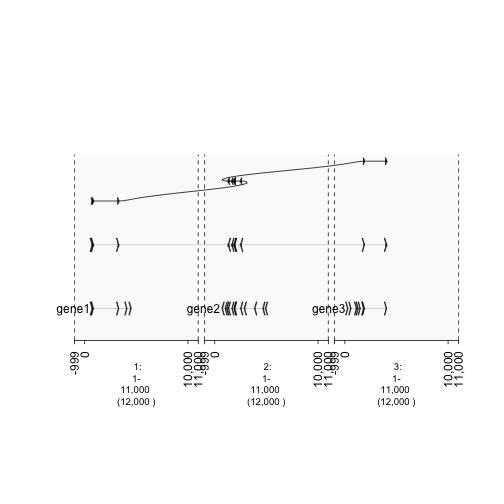
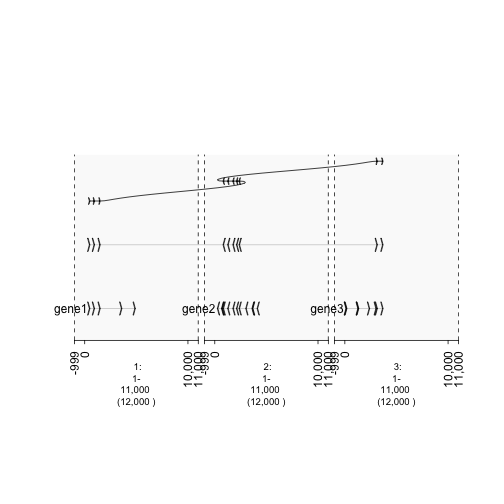
edit vignette

diff --git a/rtdocs/vignetteMutations/vignetteMutations.rst b/rtdocs/vignetteMutations/vignetteMutations.rst
@@ -1,14 +1,19 @@
-Vignette Showing How to Graph Mutations 
-=======================================
+Vignette Showing How to Graph Relationships in The Genome 
+=========================================================
 
-**Draw.paths**
+Genes interact with each other, either on purpose such as epistasis or not such as DNA rearrangement in solid tumors. Both circumstances may wish to be graphed and gTrackcan perform such a task.
 
+In this vignette, the draw.paths and gr.labelfield and circle parameters of gTrack will be highlighted. In addition, GRangesList will be used and that may be effective for certain data sets, as will be shown. 
+
+To simulate the draw.paths and gr.labelfield parameters, a GRangesList storing sequences from chromosomes 1,2, and 3 will be created. Then, a graph will show when draw.paths is supplied and when it is not. Likewise, will be done for the gr.labelfield parameter. 
 
 
 .. sourcecode:: r
     
 
-    ## To create fake genes, create two GRanges objects each filled with random ranges from chromosomes 1 and 2. Ranges fall within the 1-5e3 sequence
+    ## To simulate mutations, we first need to create genes. Once those genes are made, a few sequences will be selected as variants. Their "strange" data will be graphed and because they are outliers, they will be easily visable. This vignette also highlights examples of how/when to use the following gTrack parameters: draw.paths, gr.labelfield.  
+    
+    ## To create fake genes, create two GRanges objects each filled with random ranges from chromosomes 1,2, and 3. 
     
     gene1 = sort(sample(gr.tile(parse.gr('1:1-5e3+'), 50), 5))
     gene2 = rev(sort(sample(gr.tile(parse.gr('2:1-5e3-'), 50), 12)))
@@ -25,12 +30,12 @@ Vignette Showing How to Graph Mutations
     
     gt.genes = gTrack(grl)
     
-    ## Plot but, connect ranges using draw.paths
+    ## Plot but, show how **effective** draw.paths and gr.labelfield can be.
     fusion = GRangesList(c(grl$gene1[1:3], grl$gene2[5:9], grl$gene3[7:8]))
-    gt.fusion = gTrack(fusion, draw.paths = FALSE, gr.labelfield = 'exon')
-    gt.fusion.o = gTrack(fusion, draw.paths = TRUE, gr.labelfield = 'exon')
+    gt.fusion = gTrack(fusion, draw.paths = FALSE)
+    gt.fusion.o = gTrack(fusion, draw.paths = TRUE)
     
-    
+    ## separating the windows for the graph. 
     win = parse.gr(c('1:1-1e4', '2:1-1e4', '3:1-1e4'))
 
 
